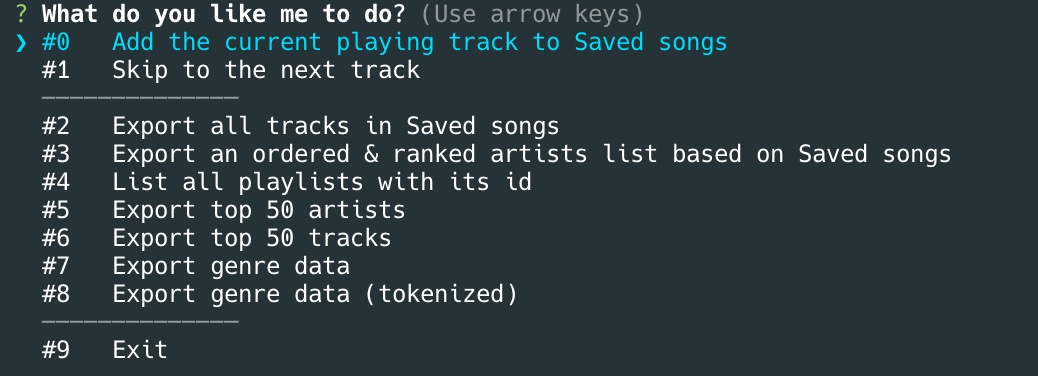
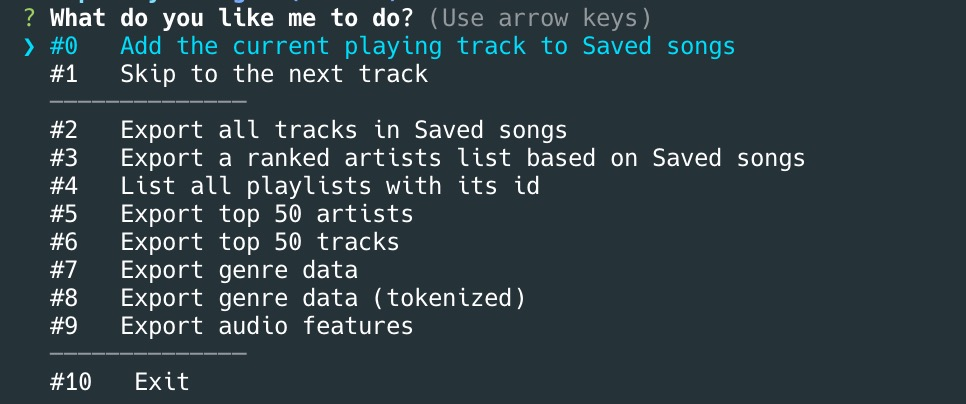
readme

Changed region(s): [[0.0311, 0.2926, 0.9317, 0.9654], [0.0, 0.0, 0.7764, 0.2048], [0.0311, 0.234, 0.2484, 0.2633]]

diff --git a/README.md b/README.md
@@ -13,7 +13,7 @@ Along with the package also comes a interactive terminal interface with which th
 ![screenshot](terminal_screenshot.jpg)
 - **Automatically** refreshes access token in the interactive mode. 
 - Get **contactnated** & **pruned** (configurable) data of **all** (Say goodbye to 50 objects at a time!) tracks in **ANY** playlists. Concurrent requests garantees the execution is still fast even when the playlist is long .
-- Get a list of **ranked** artists from **ANY** playlist. The artists are ranked by the number of works included in the playlist. So with this api you can analyze for example who are your favorite artists.
+- Get a list of **ranked** artists from **ANY** playlist. 
 - Genre analyzation for **ANY** playlist.
 - **Playlist-oriented** audio features analysis.
 
@@ -30,7 +30,8 @@ Along with the package also comes a interactive terminal interface with which th
   OutputDir=data
   Tracks=tracks
   Artists=artists 
-  Genres=genresA
+  Genres=genres
+  AudioFeatures=audio_features
   ```  
   - Clone the repository then `npm install`  *OR* `npm i spotify-lens`.
   - `node run.js` and follow the instrcutions on the terminal. 
@@ -80,8 +81,23 @@ The `SpotifyLens` class provides core functions, and is well-suited to be embede
 ]
 ```
 - `analyzeGenreTokenized(playlistId)` is similar to `analyzeGenre` but will tokenize `tropical house` to `tropical` and `house`.
-- `getFavArtists(playlistId)` returns a ordered & unique artists list whose works are found in the playlist with `playlistId`.
-- `analyzeAudioFeatures(playlistId)` returns an overall average of features: `'danceability','energy','key','loudness','mode','speechiness','acousticness','instrumentalness','liveness','valence','tempo'`
+- `getAllArtists(playlistId)` returns a ranked artists list whose works are found in the playlist with `playlistId`. The artists are ranked by the number of works included in the playlist. So with this api you can analyze for example who are your favorite artists.
+- `analyzeAudioFeatures(playlistId)` returns an overall average of features: `'danceability','energy','key','loudness','mode','speechiness','acousticness','instrumentalness','liveness','valence','tempo'`.
+```json
+{
+    "danceability": 0.6460605819748739,
+    "energy": 0.7151449681068482,
+    "key": 6.833670195008889,
+    "loudness": -6.782919252678676,
+    "mode": 0.16876905772482756,
+    "speechiness": 0.04087642070605159,
+    "acousticness": 0.03041756089694307,
+    "instrumentalness": 0.0022137601251104467,
+    "liveness": 0.21600389719016522,
+    "valence": 0.44158085756109505,
+    "tempo": 128.1000903658005
+}
+```
   
   For the methods above, if `playlistId` is `undefined`, it will target at the _Saved Songs_ library.
 
